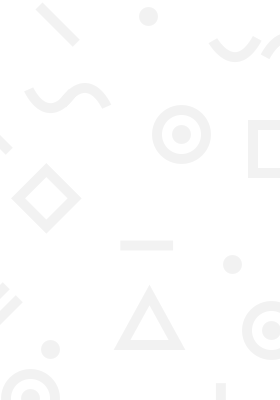
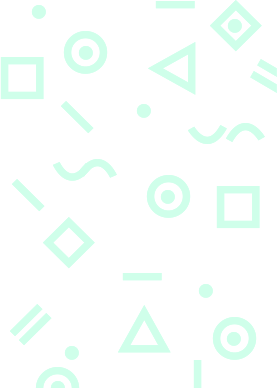
new background + fitting size

diff --git a/src/style/main.css b/src/style/main.css
@@ -12,26 +12,25 @@ body {
 }
 
 .main-container {
-  font-family: 'Roboto Slab', serif;
+  font-family: 'Alfa Slab One', cursive;
 }
 
 .card {
-  width: 150px;
-  height: 200px;
+  width: 145px;
+  height: 195px;
   display: inline-block;
   -webkit-background-size: cover;
   background-size: cover;
-  border: 2px solid white;
 }
 
 .card.pink {
-  background-image: url("pinkbg.png");
-  background-color: #F7A8DD;
+  background-image: url("pink.png");
+  background-color: #FFE0D3;
 }
 
 .card.green {
-  background-image: url("greenbg.png");
-  background-color: #70ECC0;
+  background-image: url("green.png");
+  background-color: #BED3E9;
 }
 
 .player1 {
@@ -51,18 +50,20 @@ body {
 
 .board {
   margin: 100px auto;
-  box-shadow: 10px 10px 30px 1px lightgray;
+  border-spacing: 0;
+  border-collapse: collapse;
+/*  box-shadow: 10px 10px 30px 1px #3e3e3e;*/
 }
 
 .board td {
   width: 150px;
   height: 200px;
   position: relative;
-  background-image: url("newbg.png");
-  background-color: white;
+  background-color: #f1f1f1;
   -webkit-background-size: cover;
   background-size: cover;
   color: black;
+  border: 5px solid white;
 }
 
 .board td.blue {
@@ -80,8 +81,10 @@ body {
   text-align: center;
   line-height: 50px;
   font-size: 30px;
-  color: gray;
+  color: white;
   line-height: 100px;
+  -webkit-text-stroke-width: 2px;
+  -webkit-text-stroke-color: black;
 }
 
 .card span.top {

diff --git a/src/index.html b/src/index.html
@@ -2,7 +2,7 @@
 <head>
   <meta charset="UTF-8">
   <title>Triple Triad Game</title>
-  <link href="https://fonts.googleapis.com/css?family=Roboto+Slab" rel="stylesheet">
+  <link href="https://fonts.googleapis.com/css?family=Alfa+Slab+One" rel="stylesheet">
   <link rel="stylesheet" href="style/main.css">
   <script src="https://cdnjs.cloudflare.com/ajax/libs/lodash.js/4.17.4/lodash.min.js"></script>
   <script src="scripts/lib/jquery.js"></script>
@@ -160,7 +160,7 @@
       var cell20 = $(".cell-20");
       var cell21 = $(".cell-21");
       var cell22 = $(".cell-22");
-      $(".card").draggable({ snap: true, snapMode: "both" });
+      $(".card").draggable({ snap: true, snapMode: "inner" });
       $(".board td").droppable({ 
         activeClass: "ui-state-highlight",
         drop: function(event, ui){
